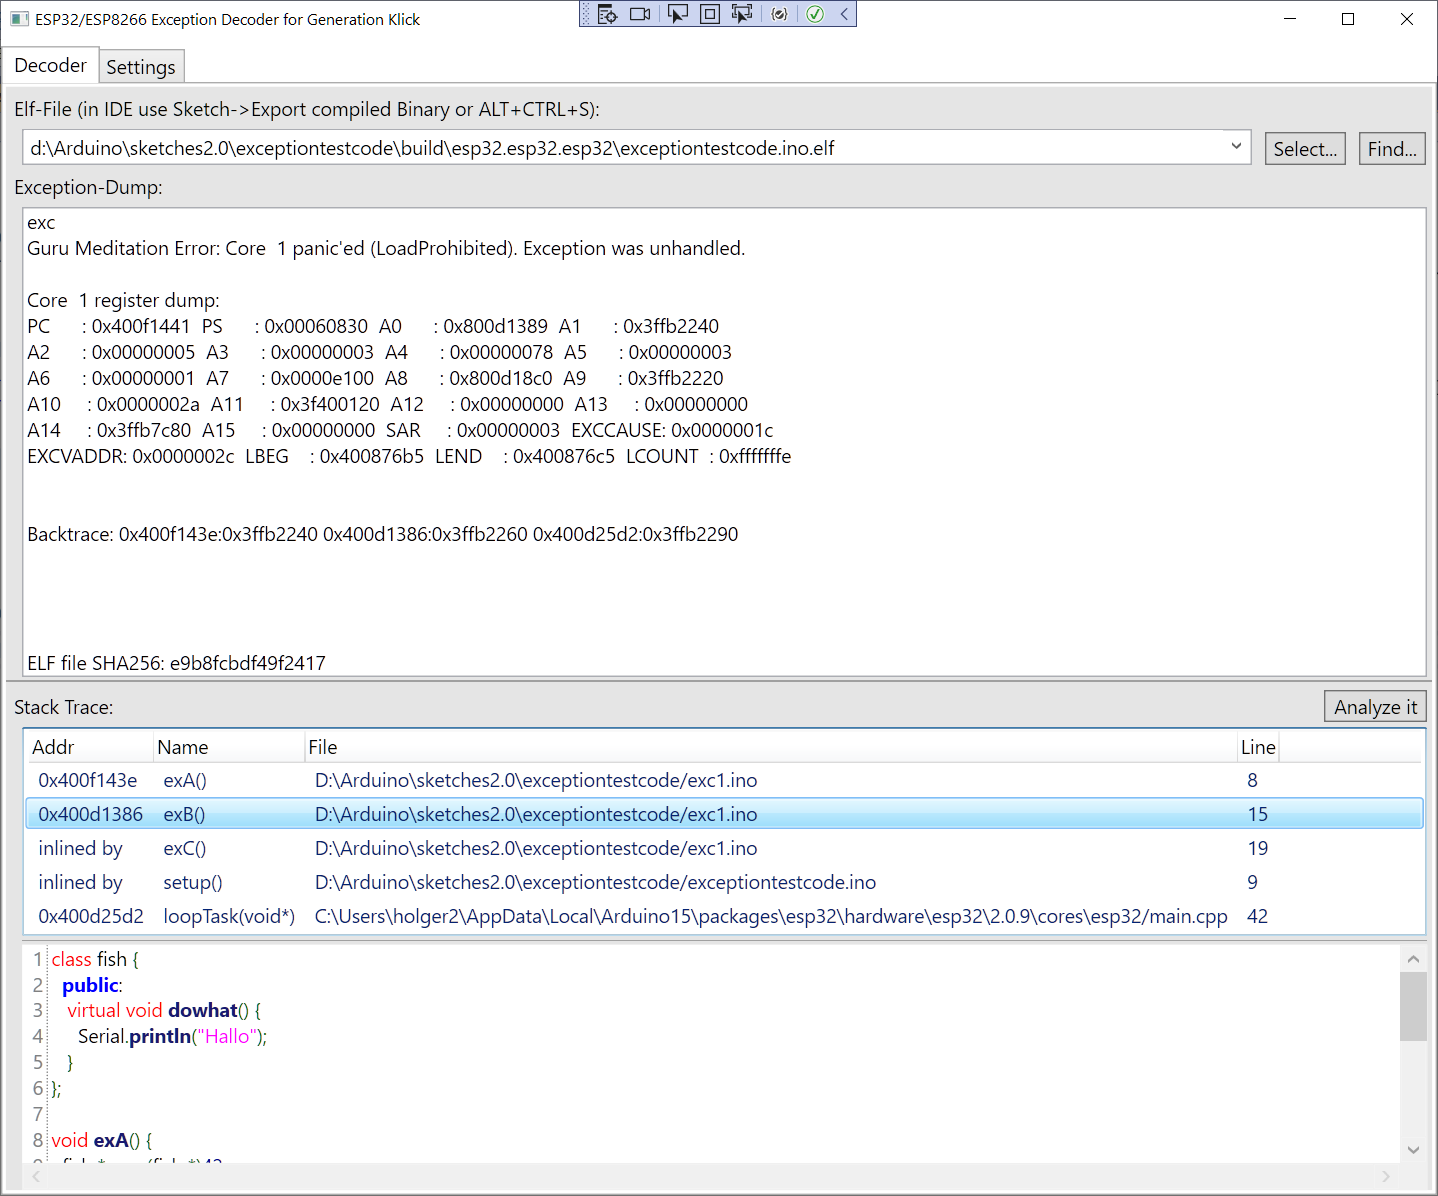
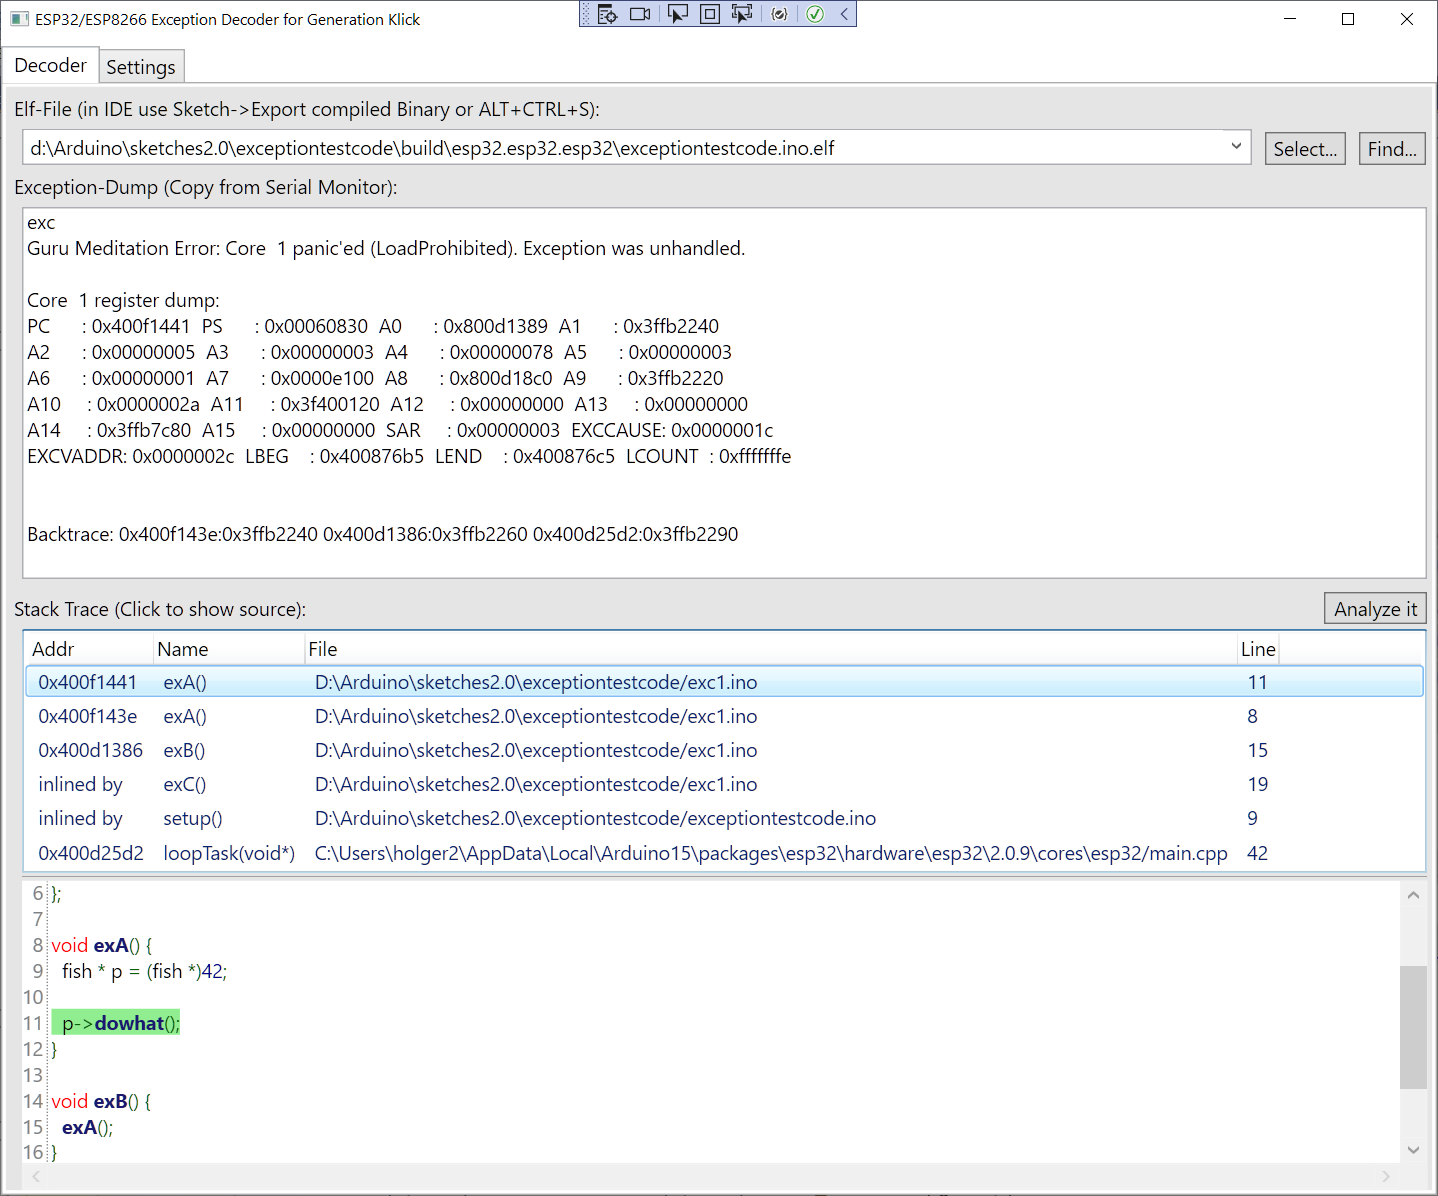
up

Changed region(s): [[0.0, 0.464, 1.0, 0.959], [0.1224, 0.1547, 0.2754, 0.1856], [0.9485, 0.8662, 1.0, 0.9281]]

diff --git a/Addr2Line.cs b/Addr2Line.cs
@@ -1,7 +1,10 @@
-using System.Collections.ObjectModel;
+using Microsoft.VisualBasic;
+using System.Collections;
+using System.Collections.ObjectModel;
 using System.ComponentModel;
 using System.Diagnostics;
 using System.Linq;
+using System.Runtime.CompilerServices;
 using System.Windows.Automation;
 using System.Windows.Documents;
 
@@ -20,6 +23,7 @@ namespace ESPEDfGK
     class Addr2Line
     {
         public ObservableCollection<TraceItem> DataList = new();
+        private Hashtable registers = new();
 
         //*****************************************************************************************
         string subexec(string addr2lineexe, string elffilename, string addrlist)
@@ -67,17 +71,70 @@ namespace ESPEDfGK
             return "";
         }
 
-        // Backtrace: 0x400f143e:0x3ffb2240 0x400d1386:0x3ffb2260 0x400d25d2:0x3ffb2290
+        //*****************************************************************************************
+        void buildregistercollection(string exceptiondump)
+        /*
+         
 
+esp32
+
+PC      : 0x400f1441  PS      : 0x00060830  A0      : 0x800d1389  A1      : 0x3ffb2240  
+A2      : 0x00000005  A3      : 0x00000003  A4      : 0x00000078  A5      : 0x00000003  
+A6      : 0x00000001  A7      : 0x0000e100  A8      : 0x800d18c0  A9      : 0x3ffb2220  
+A10     : 0x0000002a  A11     : 0x3f400120  A12     : 0x00000000  A13     : 0x00000000  
+A14     : 0x3ffb7c80  A15     : 0x00000000  SAR     : 0x00000003  EXCCAUSE: 0x0000001c  
+EXCVADDR: 0x0000002c  LBEG    : 0x400876b5  LEND    : 0x400876c5  LCOUNT  : 0xfffffffe  
+
+Backtrace: 0x400f143e:0x3ffb2240 0x400d1386:0x3ffb2260 0x400d25d2:0x3ffb2290
+
+Backtrace is PC:SP-pairs (program counter, stack pointer). sp is ignored by addr2line-tool.
+
+https://docs.espressif.com/projects/esp-idf/en/latest/esp32/api-guides/fatal-errors.html
+
+         */
+        {
+            int i = exceptiondump.IndexOf("PC ");
+            if (i > -1)
+            {
+                exceptiondump = exceptiondump.Remove(0, i);
+
+                i = exceptiondump.IndexOf("LCOUNT");
+                if (i > -1)
+                {
+                    exceptiondump = exceptiondump.Remove(i + 20);
+                    exceptiondump = exceptiondump.Replace("\r\n", " ");
+                    exceptiondump = exceptiondump.Replace(": ", " : ");
+
+                    do
+                    {
+                        exceptiondump = exceptiondump.Replace("  ", " ");
+                    } while (exceptiondump.Contains("  "));
+
+                    exceptiondump = exceptiondump.Replace(" : ", ":");
+
+                    string[] r = exceptiondump.Split(" ");
+
+                    foreach (string s in r)
+                    {
+                        string[] l = s.Split(":");
+                        registers.Add(l[0], l[1]);
+                    }
+                }
+            }
+        }
 
         //*****************************************************************************************
         public void Execute(string addr2lineexe, string elffilename, string exceptiondump)
         {
             DataList.Clear();
 
+            buildregistercollection(exceptiondump);
+
             string bt = findBacktrace(exceptiondump);
             if (bt != "")
             {
+                bt = registers["PC"] + ":" + registers["PC"]+" "+bt;
+
                 string output = subexec(addr2lineexe, elffilename, bt);
 
                 string[] lines = output.Split("\r\n");
@@ -103,11 +160,11 @@ namespace ESPEDfGK
                         else
                         {
                             ti.Addr = lines[i].Substring(0, j);
-                            lines[i] = lines[i].Remove(0, j + 2);
+                            lines[i] = lines[i].Remove(0, j + 2).Trim();
                         }
 
                         j = lines[i].IndexOf(" at ");
-                        ti.Name = lines[i].Substring(0, j);
+                        ti.Name = lines[i].Substring(0, j).Trim();
                         lines[i] = lines[i].Remove(0, j + 3);
 
                         j = lines[i].Length - 1;
